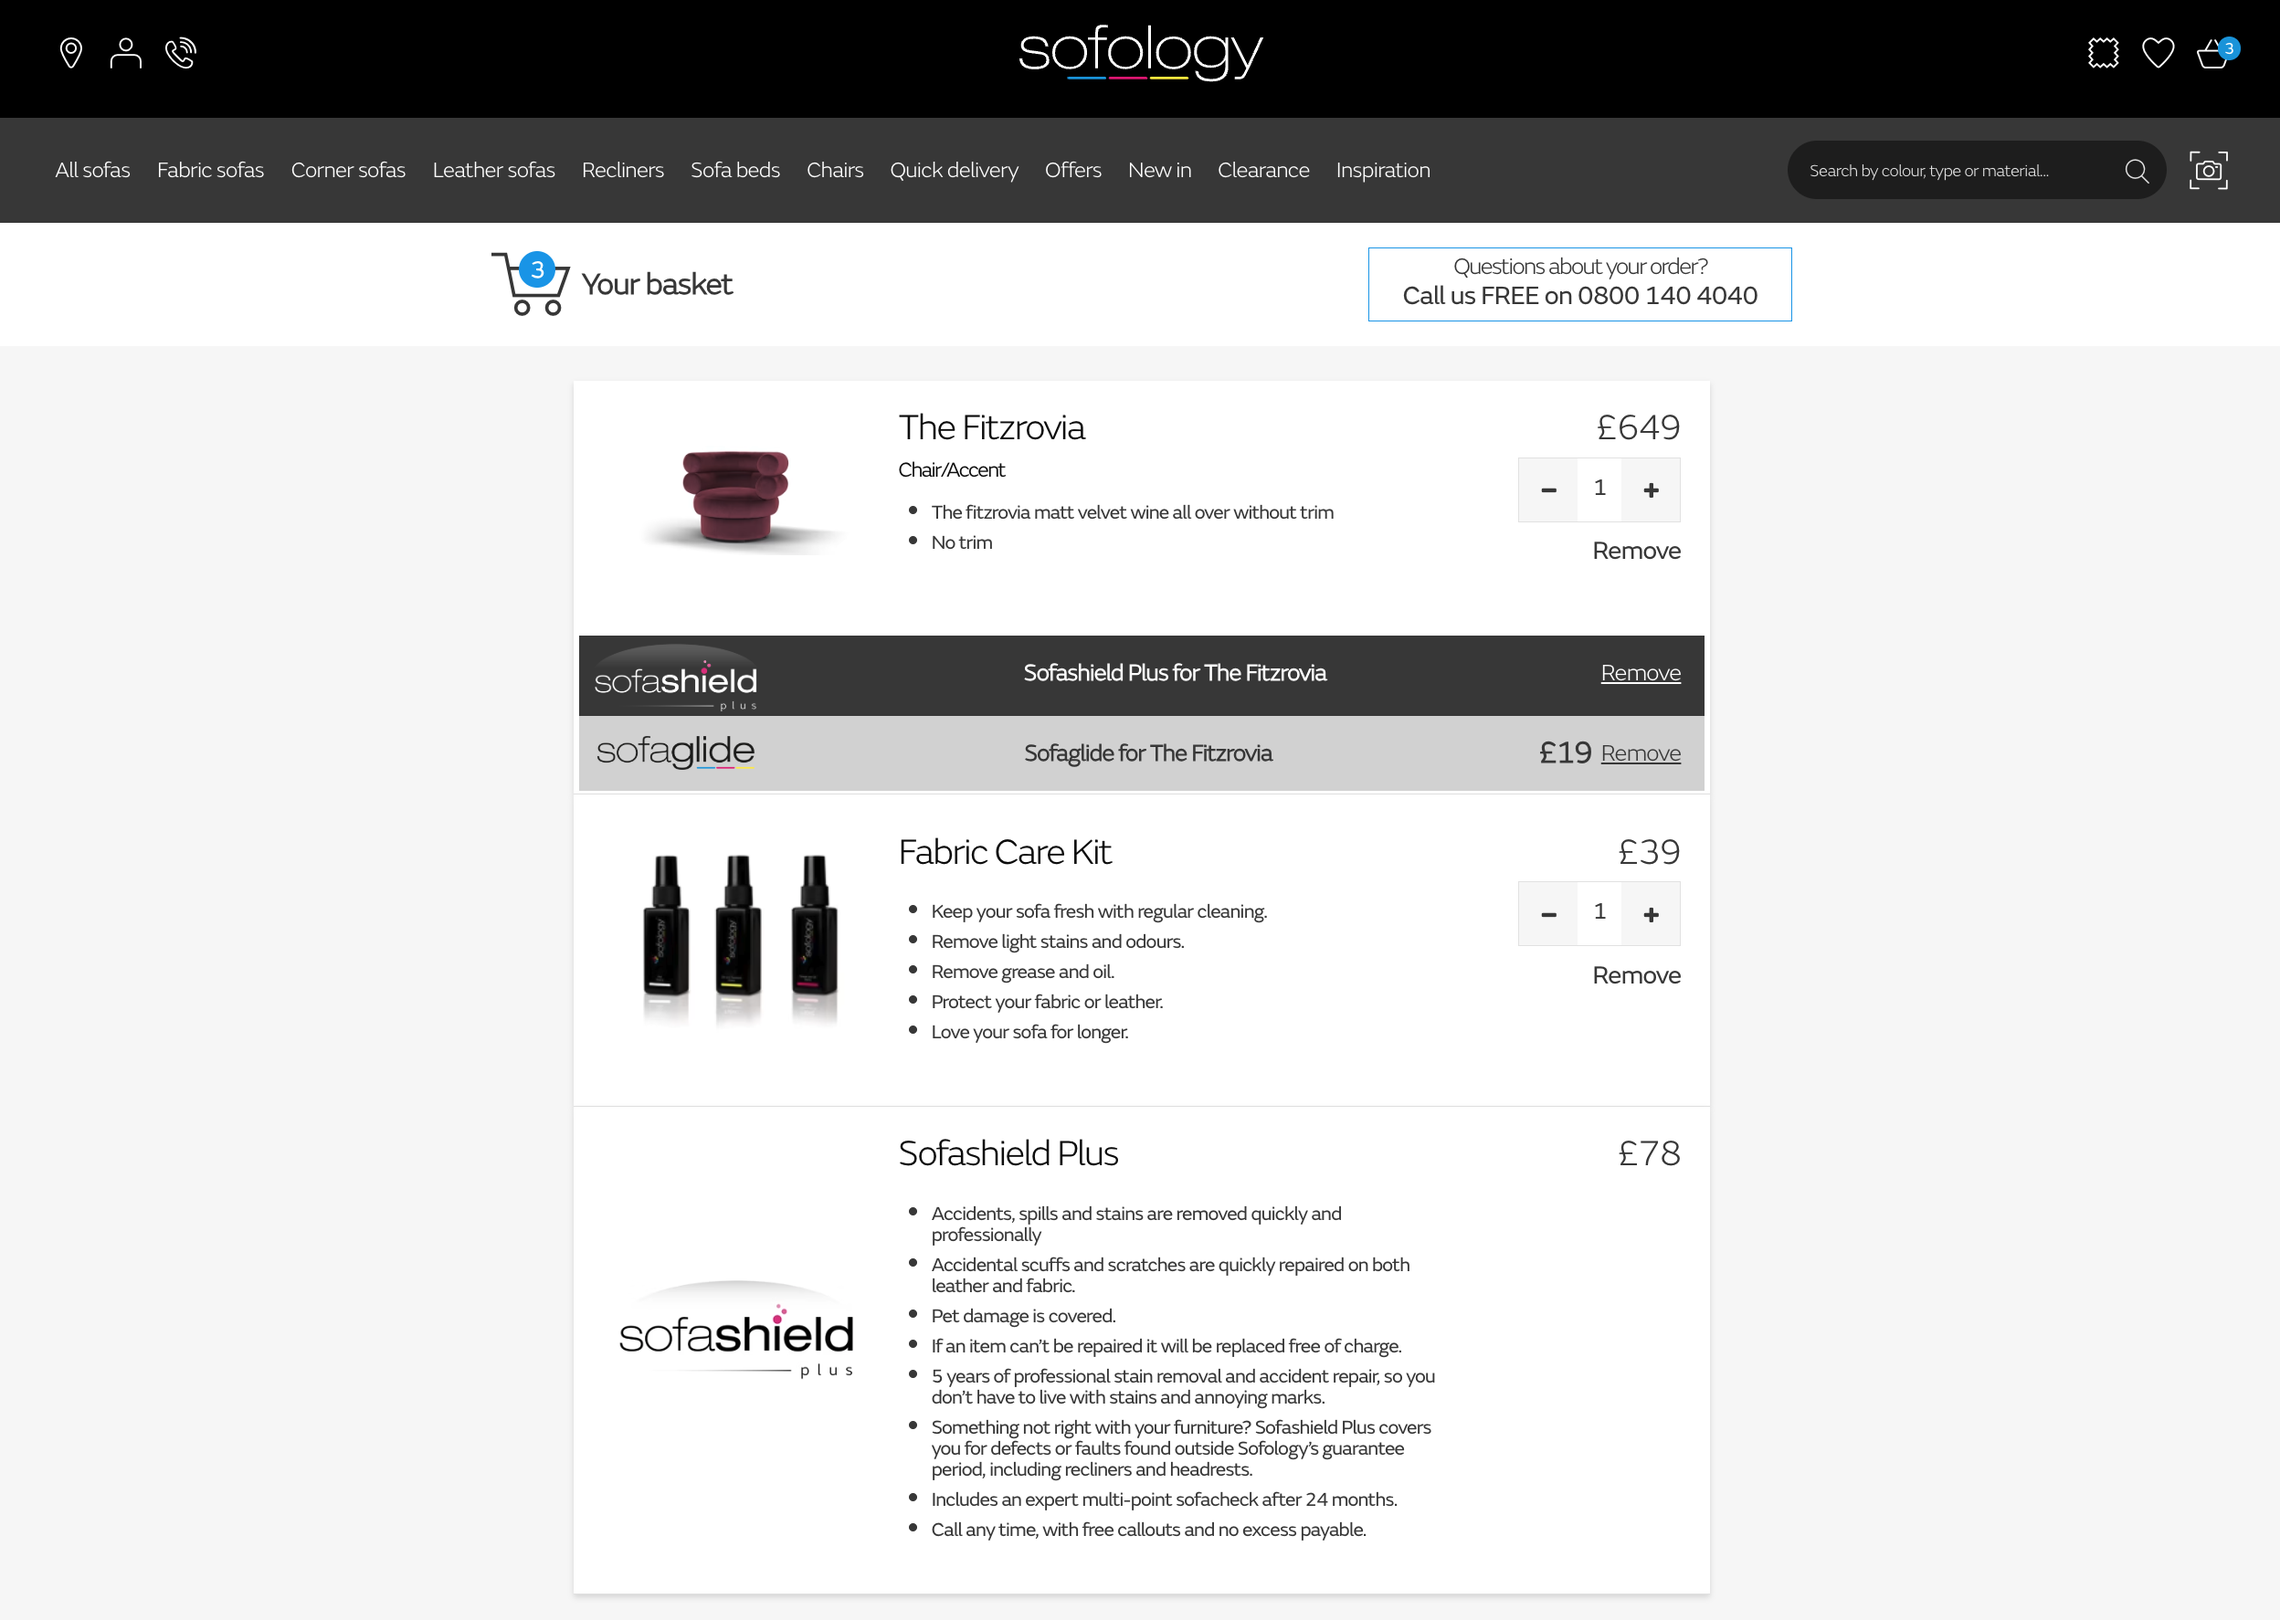
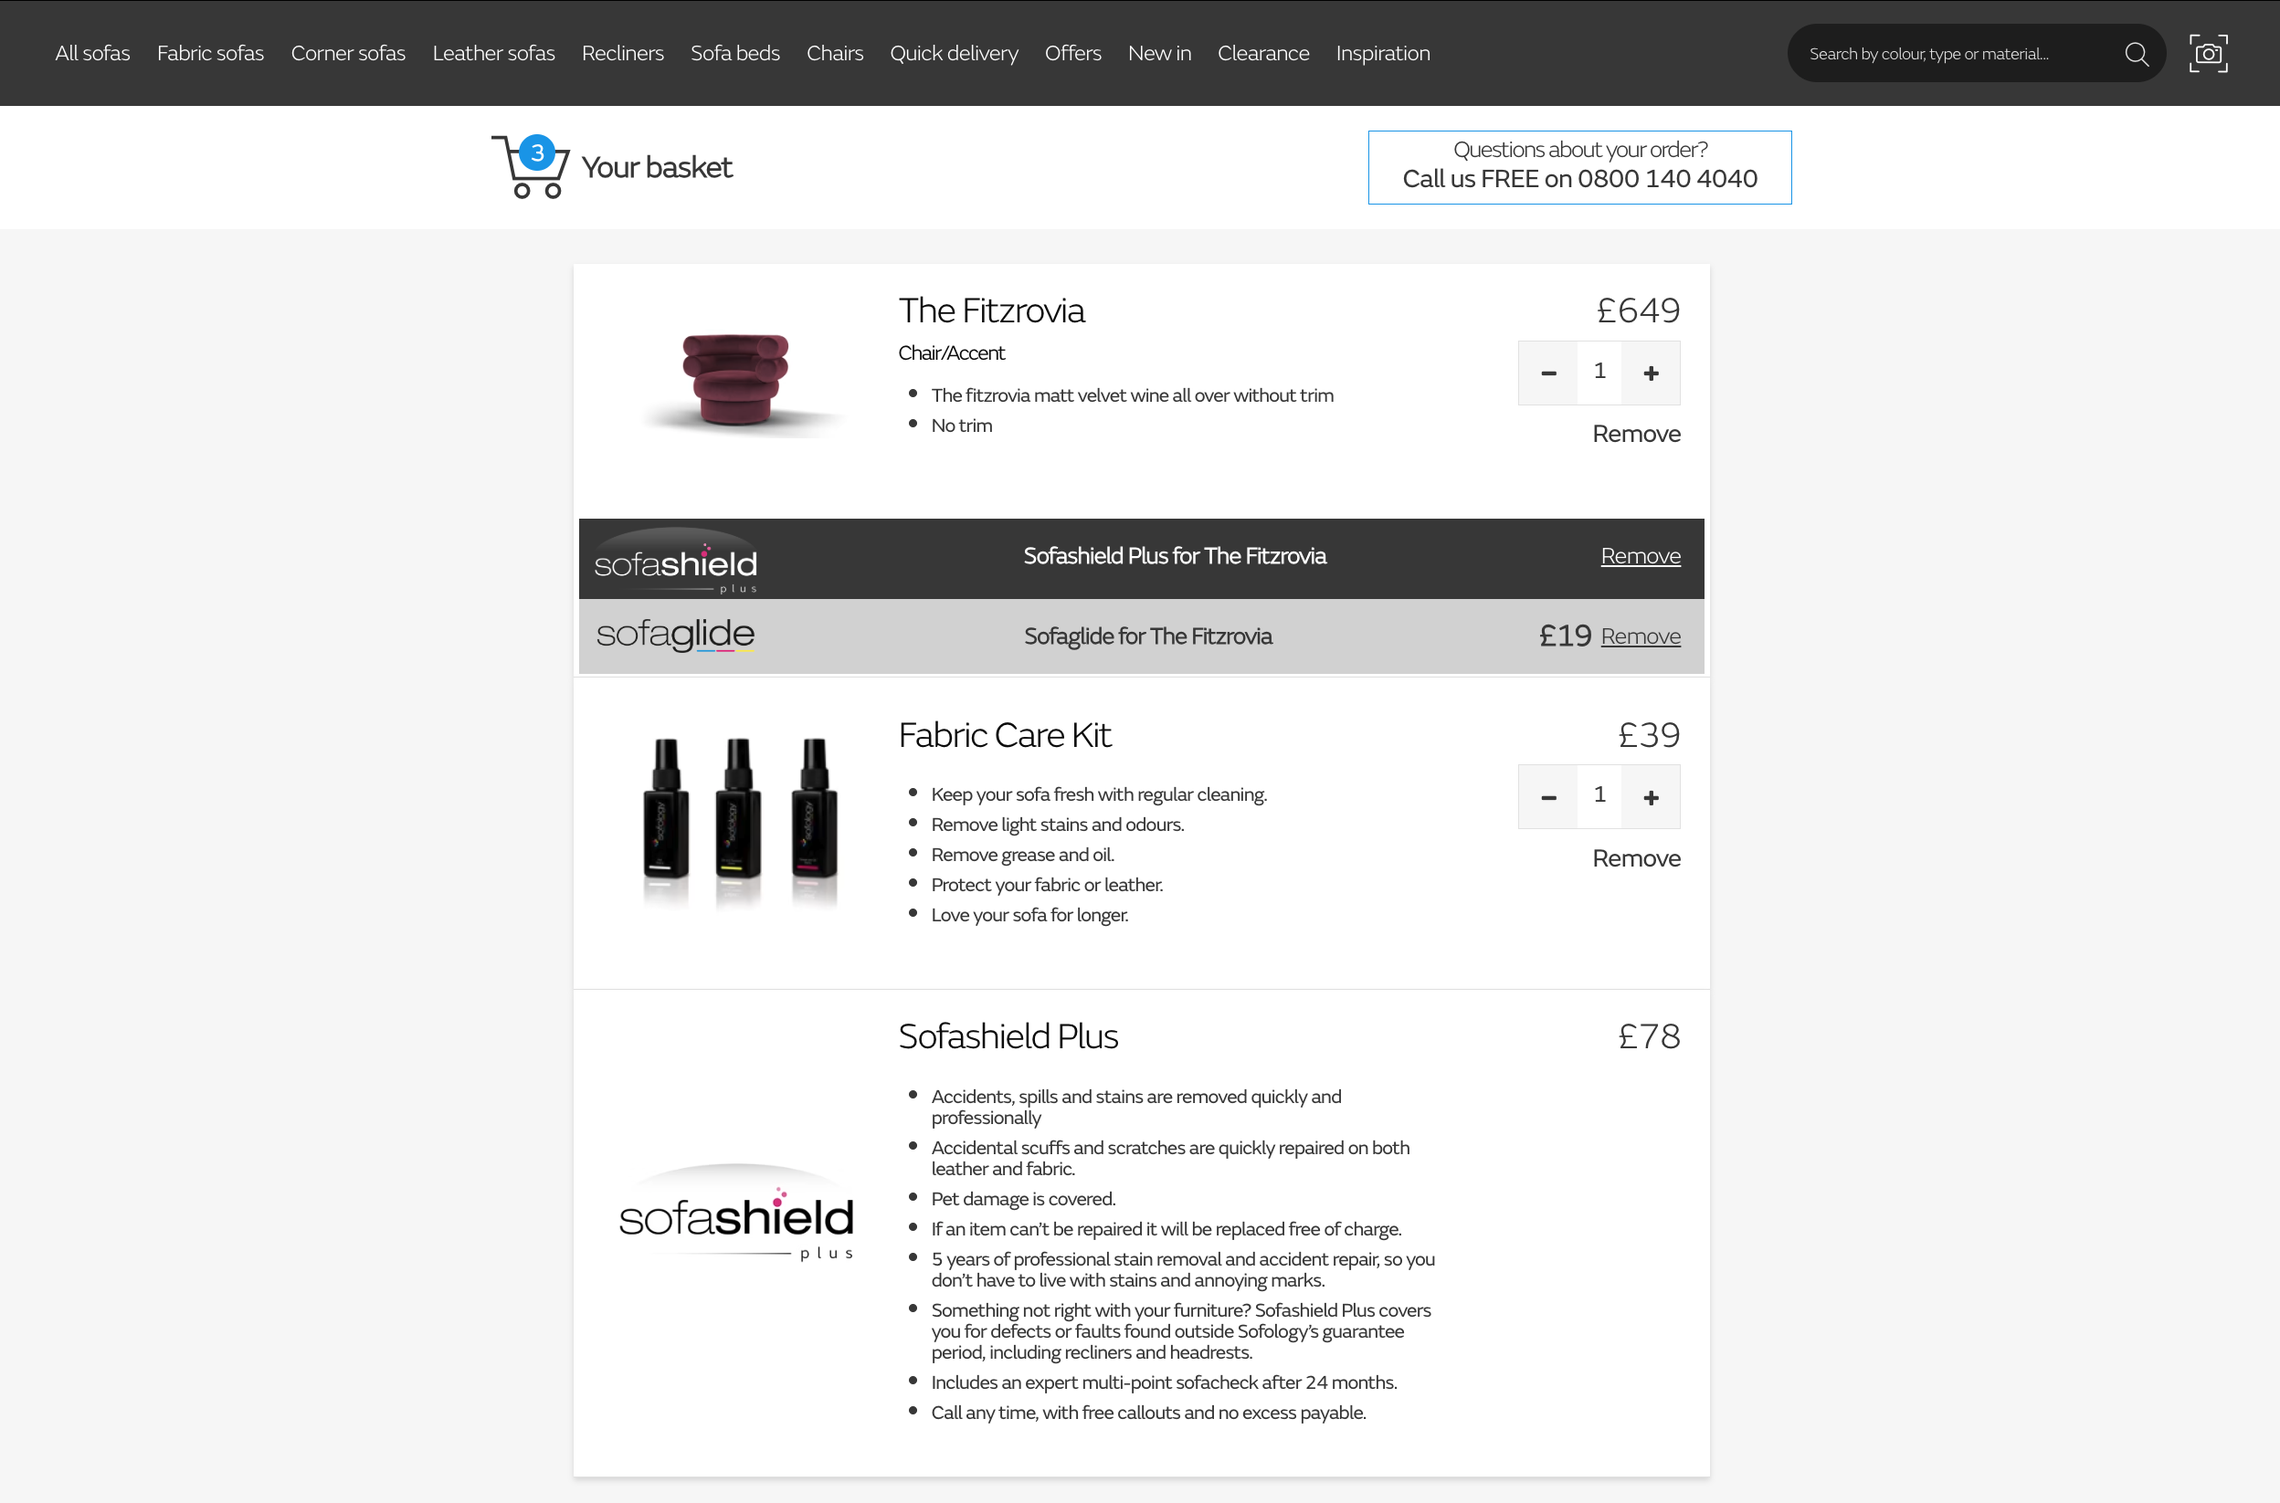
Description, header, contact updates
Changed what I can do, project images, contact section and adaptivity of header

diff --git a/index.html b/index.html
@@ -58,7 +58,6 @@ header h1 {
       flex-direction: column;
       align-items: flex-start;
       gap: 0.1rem;
-      margin-left: -6rem;
     }
     .hello-line {
       margin-left: 20%;
@@ -75,6 +74,10 @@ header h1 {
     .coordinator-line {
       margin-left: 10%;
       font-size: clamp(2rem, 8vw, 4rem);
+    }
+    .for-business-line {
+      margin-left: 0%;
+      font-size: clamp(2rem, 8vw, 3rem);
     }
     .italic {
       font-style: italic;
@@ -117,6 +120,11 @@ header h1 {
       .coordinator-line {
         margin-left: 0;
         font-size: 2.5rem;
+        text-align: center;
+      }
+      .for-business-line {
+        margin-left: 0;
+        font-size: 1.8rem;
         text-align: center;
       }
       .avatar-large {
@@ -172,7 +180,9 @@ header h1 {
       .coordinator-line {
         font-size: 2.5rem;
       }
-
+      .for-business-line {
+        font-size: 1.8rem;
+      }
       .avatar-large {
         width: 200px;
       }
@@ -206,6 +216,11 @@ header h1 {
         font-size: 2rem;
         text-align: center;
       }
+      .for-business-line {
+        margin-left: 0;
+        font-size: 1.8rem;
+        text-align: center;
+      }
       .contact-btn {
         position: absolute;
         top: 1rem;
@@ -223,6 +238,29 @@ header h1 {
     @media (min-width: 1025px) {
       .header {
         gap: 6rem;
+      }
+    }
+
+    @media (min-width: 1025px) and (max-width: 1075px) {
+      .header .hello-line,
+      .header .im-line,
+      .header .project-line,
+      .header .coordinator-line {
+        font-size: 2.5rem;
+      }
+      .header .for-business-line {
+        font-size: 1.5rem;
+      }
+    }
+    @media (min-width: 1025px) and (max-width: 1300px) {
+      .header .hello-line,
+      .header .im-line,
+      .header .project-line,
+      .header .coordinator-line {
+        font-size: 3rem;
+      }
+      .header .for-business-line {
+        font-size: 2rem;
       }
     }
 
@@ -247,6 +285,9 @@ header h1 {
     }
 h2 {
   font-size: 1.75rem; font-weight: 500; margin-bottom: 1rem; color: var(--color-accent-green);
+}
+.header h2 {
+  margin-bottom: 0;
 }
 
     /* About */
@@ -690,7 +731,6 @@ h3 {
       }
     }
     /* Contact Section Card */
-    
     #contact h2 {
       font-size: 1.75rem;
       font-weight: 500;
@@ -706,7 +746,7 @@ h3 {
     /* Custom Contact layout */
     #contact .contact-content {
       background: var(--color-bg2);
-      padding: 2rem 1rem;
+      padding: 1.5rem;
       border-radius: 12px;
       display: flex;
       flex-wrap: wrap;
@@ -716,17 +756,23 @@ h3 {
       margin: auto;
     }
     #contact .contact-text {
-      flex: 0 0 350px;
-      max-width: 350px;
+      flex: 1 1 100%;
+      max-width: 100%;
     }
     #contact .contact-text p {
-      font-size: 1.125rem;
+      font-size: 1.3rem;
+    }
+    /* Make intro paragraph larger and centered */
+    #contact .contact-intro p {
+      font-size: 2rem;
+      text-align: center;
+      color: var(--color-primary);
     }
     #contact .contact-details p {
       margin-top: 0.75rem;
     }
     #contact .contact-link.simple {
-      font-size: 1.125rem;
+      font-size: 1.3rem;
       color: var(--color-accent-pink);
     }
     #contact .contact-link.simple:hover {
@@ -817,6 +863,8 @@ h3 {
       <h2 class="im-line highlight-green italic">I'M DASHA</h2>
       <h3 class="project-line">PROJECT</h3>
       <h3 class="coordinator-line">COORDINATOR</h3>
+      <h3 class="for-business-line highlight-green italic">FOR SMALL AND MEDIUM</h3>
+      <h3 class="for-business-line highlight-green italic">BUSINESSES</h3>
     </div>
     <div class="header-right">
       <img loading="lazy" src="Images/Photo_me1.jpeg" alt="Dasha" class="avatar avatar-large">
@@ -830,11 +878,11 @@ h3 {
       <p>I'm a relationship-driven Project Coordinator who blends creative energy with structured processes:</p>
     </div>
     <div class="about-cards">
-      <div class="card"><p>Drive clear communication and group discussions</p></div>
-      <div class="card"><p>Translate goals into focused Agile sprints</p></div>
-      <div class="card"><p>Manage scope and expectations</p></div>
-      <div class="card"><p>Coordinate distributed teams</p></div>
-      <div class="card"><p>Enhance routine tasks with AI</p></div>
+      <div class="card"><p>Translate ideas into scoped, prioritized work chunks</p></div>
+      <div class="card"><p>Align all teams for seamless delivery</p></div>
+      <div class="card"><p>Establish a clear delivery cycle</p></div>
+      <div class="card"><p>Manage each release from kickoff to launch</p></div>
+      <div class="card"><p>Provide real-time visibility of tasks & blockers</p></div>
     </div>
     
     <div class="stats">
@@ -861,18 +909,18 @@ h3 {
   <section class="tools-marquee">
     <div class="marquee marquee-slow">
       <div class="marquee__group">
-        Notion&nbsp;·&nbsp;Jira&nbsp;·&nbsp;Confluence&nbsp;·&nbsp;Trello&nbsp;·&nbsp;Miro&nbsp;·&nbsp;Photoshop&nbsp;·&nbsp;Figma&nbsp;·&nbsp;Procreate&nbsp;·&nbsp;
+        Notion&nbsp;·&nbsp;Jira&nbsp;·&nbsp;Confluence&nbsp;·&nbsp;Trello&nbsp;·&nbsp;Miro&nbsp;·&nbsp;Figma&nbsp;·&nbsp;
       </div>
       <div class="marquee__group">
-        Notion&nbsp;·&nbsp;Jira&nbsp;·&nbsp;Confluence&nbsp;·&nbsp;Trello&nbsp;·&nbsp;Miro&nbsp;·&nbsp;Photoshop&nbsp;·&nbsp;Figma&nbsp;·&nbsp;Procreate&nbsp;·&nbsp;
+        Notion&nbsp;·&nbsp;Jira&nbsp;·&nbsp;Confluence&nbsp;·&nbsp;Trello&nbsp;·&nbsp;Miro&nbsp;·&nbsp;Figma&nbsp;·&nbsp;
       </div>
     </div>
     <div class="marquee marquee-fast">
       <div class="marquee__group">
-        Notion&nbsp;·&nbsp;Jira&nbsp;·&nbsp;Confluence&nbsp;·&nbsp;Trello&nbsp;·&nbsp;Miro&nbsp;·&nbsp;Photoshop&nbsp;·&nbsp;Figma&nbsp;·&nbsp;Procreate&nbsp;·&nbsp;
+        Notion&nbsp;·&nbsp;Jira&nbsp;·&nbsp;Confluence&nbsp;·&nbsp;Trello&nbsp;·&nbsp;Miro&nbsp;·&nbsp;Figma&nbsp;·&nbsp;
       </div>
       <div class="marquee__group">
-        Notion&nbsp;·&nbsp;Jira&nbsp;·&nbsp;Confluence&nbsp;·&nbsp;Trello&nbsp;·&nbsp;Miro&nbsp;·&nbsp;Photoshop&nbsp;·&nbsp;Figma&nbsp;·&nbsp;Procreate&nbsp;·&nbsp;
+        Notion&nbsp;·&nbsp;Jira&nbsp;·&nbsp;Confluence&nbsp;·&nbsp;Trello&nbsp;·&nbsp;Miro&nbsp;·&nbsp;Figma&nbsp;·&nbsp;
       </div>
     </div>
   </section>
@@ -927,26 +975,6 @@ h3 {
             </figure>
             <figure class="slide">
               <video data-src="Images/Challenges.mp4" muted playsinline preload="metadata" class="lazy-video"></video>
-            </figure>
-            <figure class="slide">
-              <img loading="lazy" src="Images/OldFeedbackForms.png" alt="Previous feedback form">
-              <figcaption>Previous Feedback Forms page</figcaption>
-            </figure>
-            <figure class="slide">
-              <img loading="lazy" src="Images/NewFeedbackForms.png" alt="New feedback form">
-              <figcaption>New Feedback Forms page</figcaption>
-            </figure>
-            <figure class="slide">
-              <img loading="lazy" src="Images/OldCreateForm.png" alt="Previous form edit">
-              <figcaption>Previous form edit functionality</figcaption>
-            </figure>
-            <figure class="slide">
-                <img loading="lazy" src="Images/NewFormEdit.png" alt="New form edit">
-                <figcaption>New form edit functionality</figcaption>
-            </figure>
-            <figure class="slide">
-                <img loading="lazy" src="Images/NewFunction.png" alt="New function">
-                <figcaption>New functionality</figcaption>
             </figure>
             <figure class="slide">
               <img loading="lazy" src="Images/Figma.png" alt="Figma">
@@ -1038,24 +1066,8 @@ h3 {
               <figcaption>New Basket</figcaption>
             </figure>
             <figure class="slide">
-              <img loading="lazy" src="Images/checkout.png" alt="Slide D">
-              <figcaption>Checkout Process</figcaption>
-            </figure>
-            <figure class="slide">
-              <img loading="lazy" src="Images/office.jpeg" alt="Slide D">
-              <figcaption>Business Trip</figcaption>
-            </figure>
-            <figure class="slide">
-              <img loading="lazy" src="Images/cups.jpeg" alt="Slide D">
-              <figcaption>Coffee Break</figcaption>
-            </figure>
-            <figure class="slide">
-              <img loading="lazy" src="Images/workinprogress.jpeg" alt="Slide D">
-              <figcaption>Technical Discussions</figcaption>
-            </figure>
-            <figure class="slide">
-              <img loading="lazy" src="Images/jacket.jpeg" alt="Slide D">
-              <figcaption>Warehouse Tour</figcaption>
+              <img loading="lazy" src="Images/basket3.png" alt="Slide C">
+              <figcaption>Payment Calculator</figcaption>
             </figure>
           </div>
           <button class="next">▶</button>
@@ -1103,7 +1115,7 @@ h3 {
     <div class="contact-content">
       <div class="contact-text">
         <div class="contact-intro">
-          <p>Looking for support with managing your project?<br>I’d love to hear what you’re working on — let’s move it forward together.</p>
+          <p>Looking for support with managing your project?</p><p>I’d love to hear what you’re working on — </br><em>let’s move it forward together.</em></p>
         </div>
         <div class="contact-details">
           <p><strong>Vilnius, Lithuania</strong></p>
@@ -1111,11 +1123,6 @@ h3 {
           <p><strong>LinkedIn:</strong> <a href="https://www.linkedin.com/in/darya-tselesh-1a5b3572/?locale=en_US" class="contact-link simple" target="_blank">dasha_telesh</a></p>
         </div>
       </div>
-      <form id="contact-form" class="contact-form">
-        <input type="text" name="name" placeholder="Your name">
-        <textarea name="message" placeholder="Message"></textarea>
-        <button type="submit" class="send-btn">Send a message</button>
-      </form>
     </div>
   </section>
 
